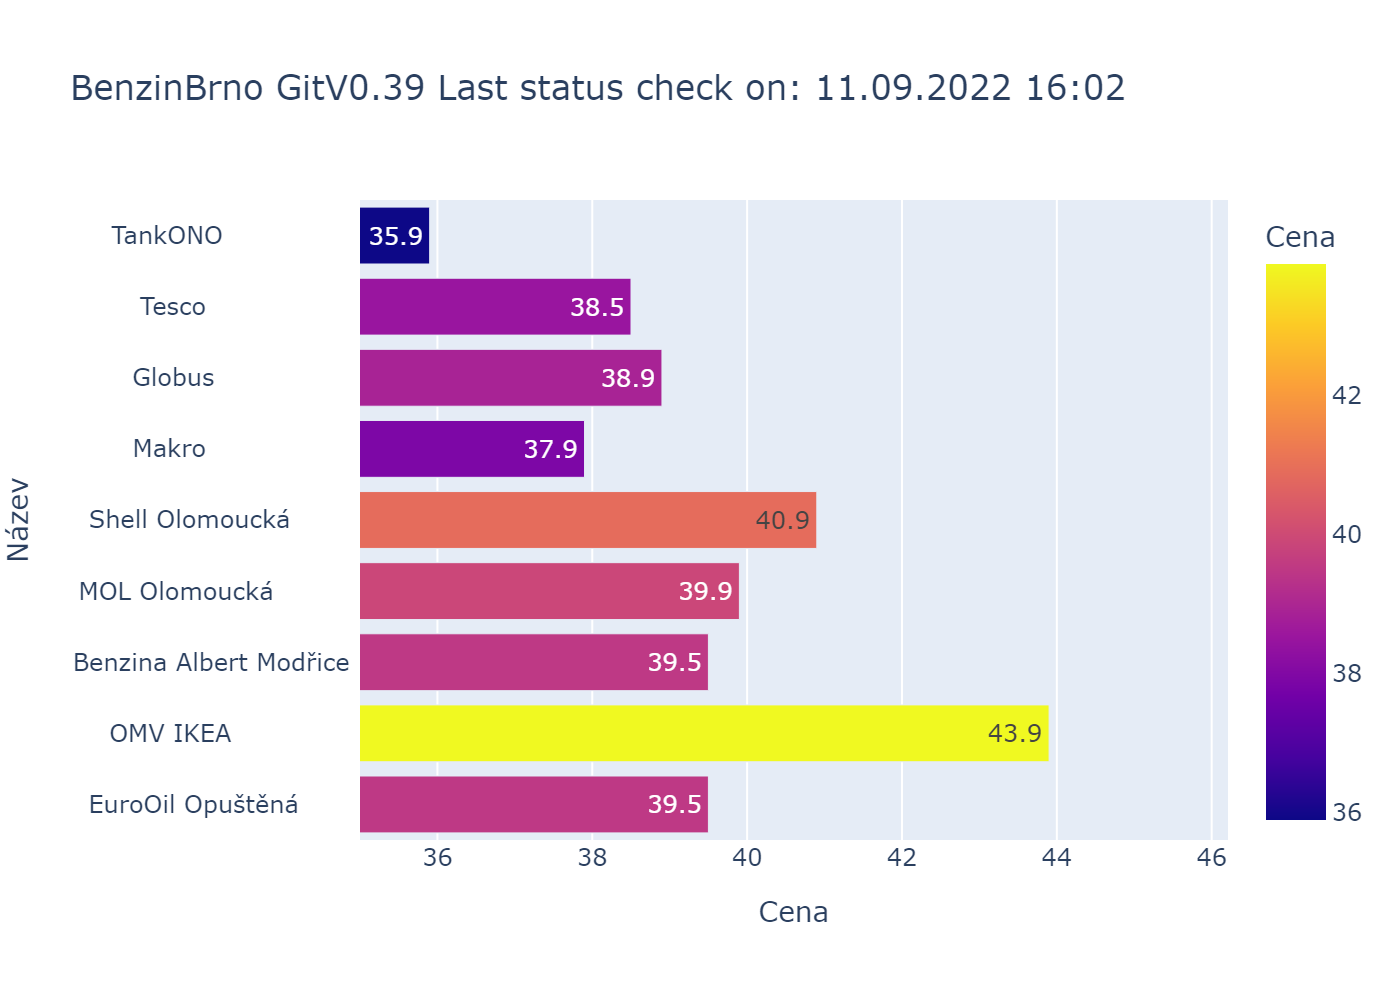
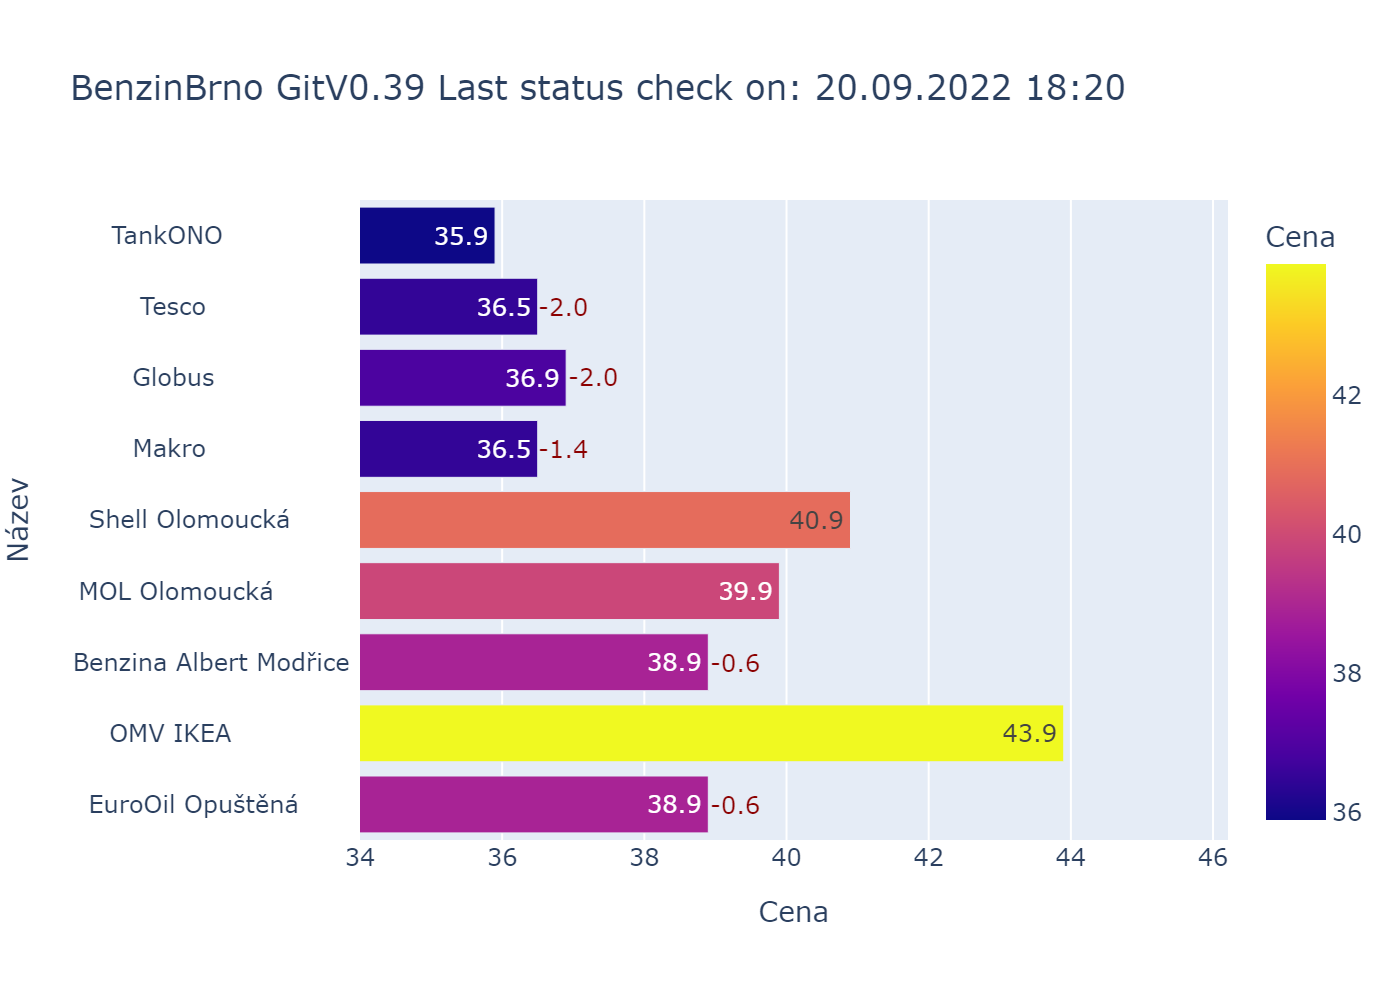
Win cmd line

diff --git a/bbCFG.py b/bbCFG.py
@@ -32,7 +32,7 @@ bbDateLog = "%d.%m.%Y--%H:%M"  # format casu
 # Formatovani Ceny (float) - Cena = '{:.2f}'.format(item)
 bbCenaMsk = '{:.2f}'  # format na 2 desetinna mista
 # Graf
-bbCenaMin = 35  # mdolni mez ceny na ose X v grafu
+bbCenaMin = 34  # dolni mez ceny na ose X v grafu
 
 # brint - my print, pomoci *ssAll
 def brint(*ssAll):
